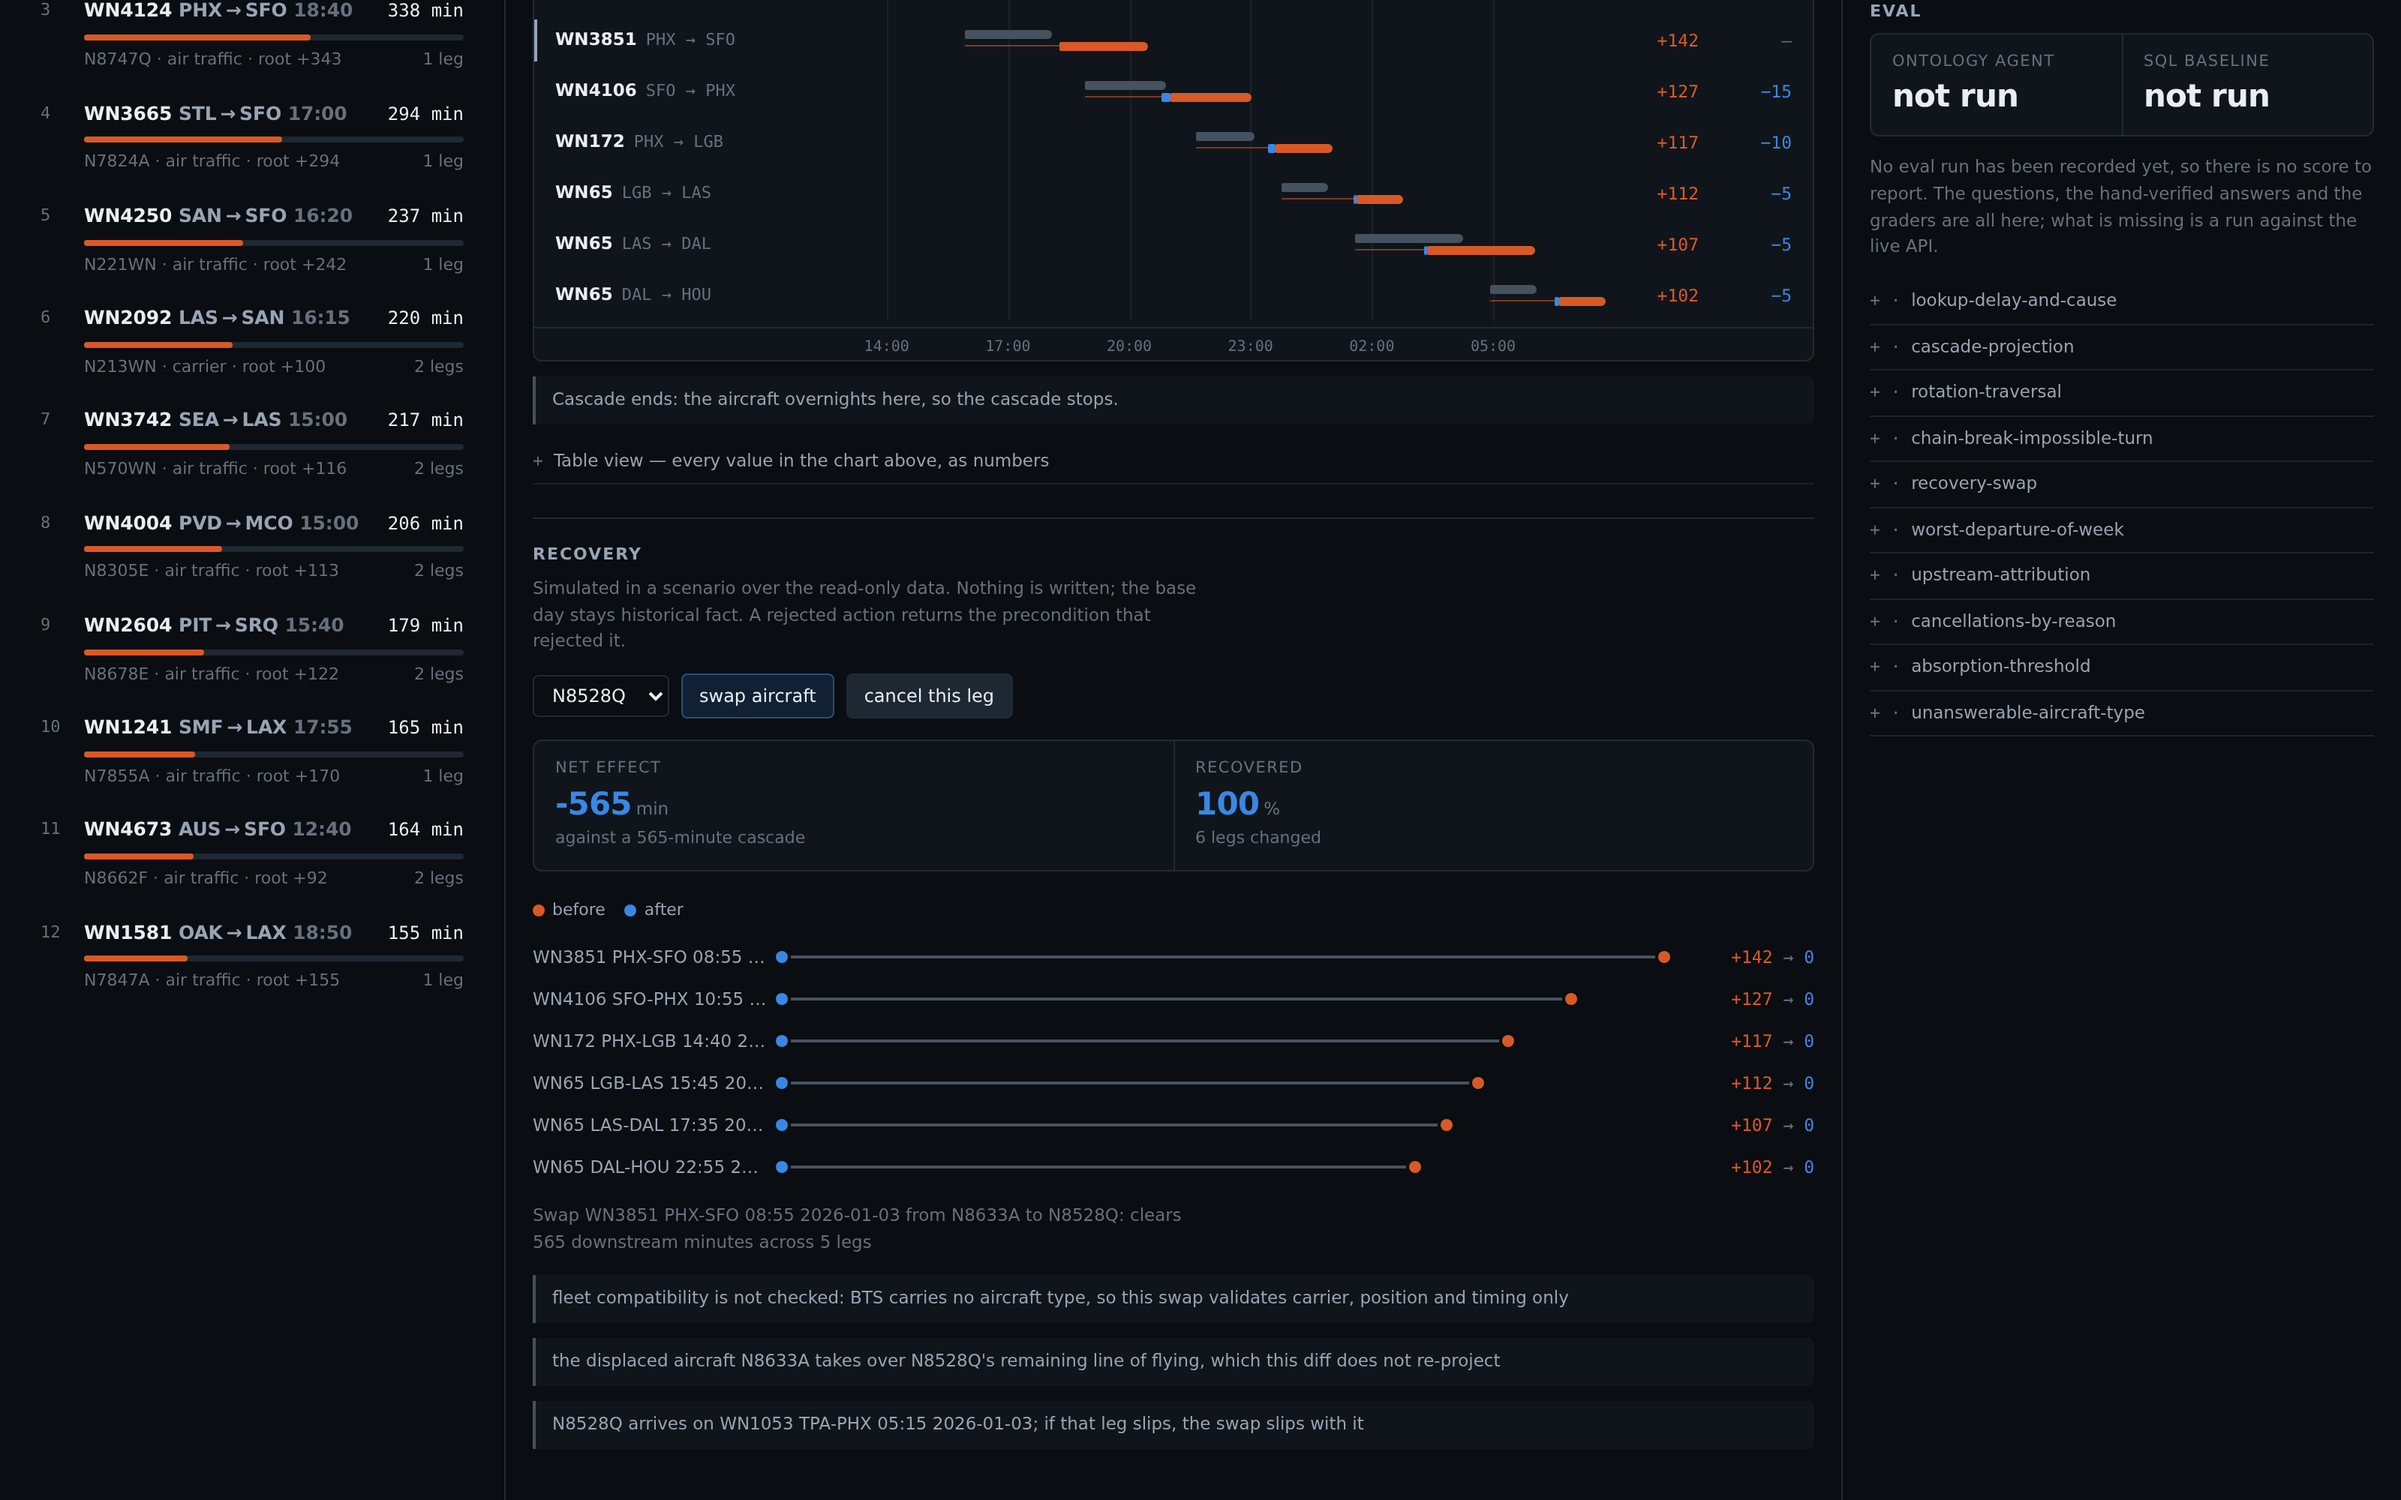
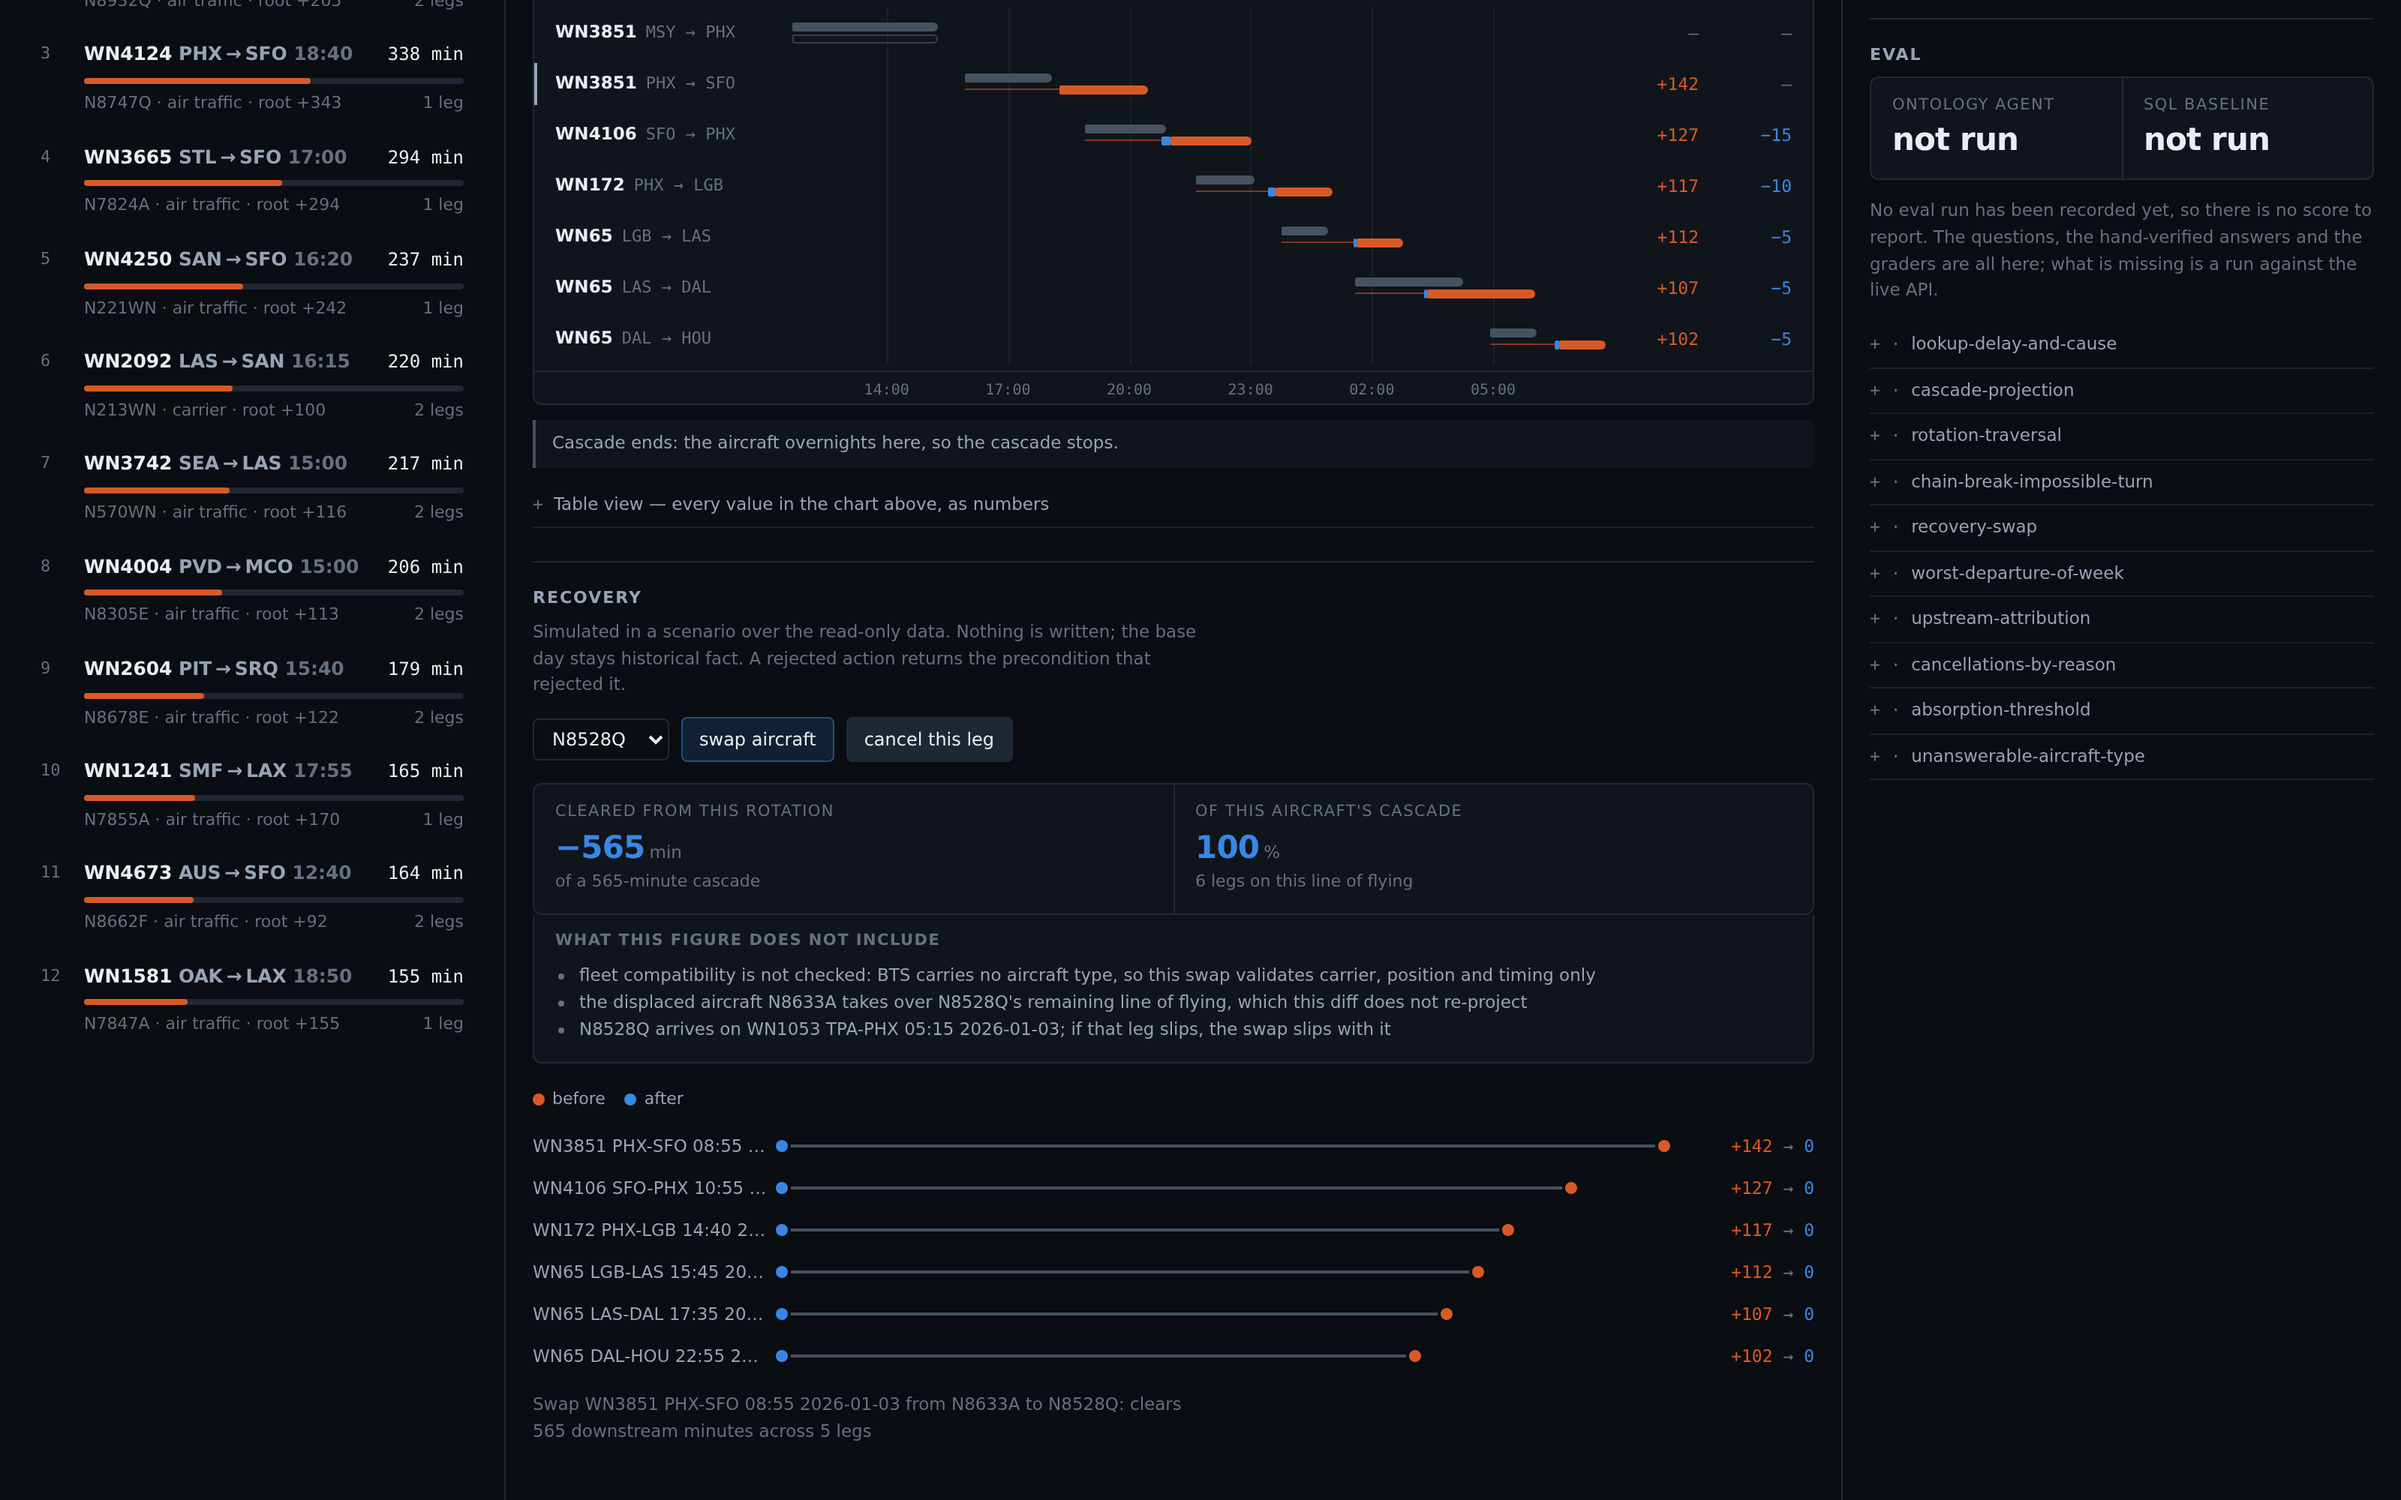
frontend: scope the recovery figure to what it measures, and put the view in the URL

diff --git a/frontend/app/page.tsx b/frontend/app/page.tsx
@@ -1,6 +1,6 @@
 'use client';
 
-import { useEffect, useState } from 'react';
+import { useEffect, useRef, useState } from 'react';
 import { ApiError, DisruptionEvent, Health, api } from '@/lib/api';
 import { DisruptionList } from '@/components/DisruptionList';
 import { CascadeView } from '@/components/CascadeView';
@@ -13,6 +13,10 @@ import { QuestionPanel } from '@/components/QuestionPanel';
  * DESIGN.md claims the missing thing is knowing which delay is worth acting on, so the ranked
  * list is the landing view and a single cascade is what you get by clicking one -- not the other
  * way round, which would make this a flight search box with a chart attached.
+ *
+ * The selected day and cascade live in the query string. A tool whose findings cannot be sent to
+ * someone else is a tool for one person: "look at this cascade" has to be a link, not a sequence
+ * of clicks to reproduce.
  */
 export default function Page() {
   const [health, setHealth] = useState<Health | null>(null);
@@ -22,7 +26,16 @@ export default function Page() {
   const [events, setEvents] = useState<DisruptionEvent[] | null>(null);
   const [selected, setSelected] = useState<DisruptionEvent | null>(null);
 
+  // What the incoming URL asked for. Read once on mount -- `window` does not exist while the
+  // static export is being prerendered -- and consumed at most once, so that a later click is
+  // never overridden by the link the visitor happened to arrive on.
+  const requested = useRef<{ date: string | null; root: string | null }>({ date: null, root: null });
+  const consumedRoot = useRef(false);
+
   useEffect(() => {
+    const query = new URLSearchParams(window.location.search);
+    requested.current = { date: query.get('date'), root: query.get('root') };
+
     // Free container hosting sleeps when idle, so the first visitor after a quiet spell waits
     // out a cold start. Retrying quietly for a minute is the difference between "this project
     // is dead" and "this took a moment" -- and a portfolio link is mostly read cold.
@@ -37,9 +50,15 @@ export default function Page() {
           setHealth(body);
           setWaking(false);
           setFailure(null);
-          // The worst day in the committed sample. Landing on an empty day would make a working
-          // deployment look broken, so the default is chosen from the data, not hardcoded.
-          setDate(body.last_date >= '2026-01-03' ? '2026-01-03' : body.first_date);
+          // A day from the URL wins, but only if the deployment actually holds it -- a stale
+          // link should land on a working screen rather than an empty one. Otherwise the worst
+          // day in the committed sample, chosen from the data rather than hardcoded, because
+          // landing on a quiet day would make a working deployment look broken.
+          const asked = requested.current.date;
+          const holds = asked !== null && asked >= body.first_date && asked <= body.last_date;
+          setDate(
+            holds ? asked : body.last_date >= '2026-01-03' ? '2026-01-03' : body.first_date,
+          );
           return;
         } catch (error) {
           attempt += 1;
@@ -69,10 +88,21 @@ export default function Page() {
       .disruptions(date)
       .then((body) => {
         setEvents(body);
-        setSelected(body[0] ?? null);
+        const wanted = consumedRoot.current ? null : requested.current.root;
+        consumedRoot.current = true;
+        setSelected(body.find((event) => event.root_flight_id === wanted) ?? body[0] ?? null);
       })
       .catch((error: ApiError) => setFailure(error.message));
   }, [date]);
+
+  // replaceState rather than pushState: paging down a ranked list should not fill the back
+  // button with twelve entries, but the address bar should always describe what is on screen.
+  useEffect(() => {
+    if (!date) return;
+    const query = new URLSearchParams({ date });
+    if (selected) query.set('root', selected.root_flight_id);
+    window.history.replaceState(null, '', `${window.location.pathname}?${query}`);
+  }, [date, selected]);
 
   return (
     <>

diff --git a/frontend/components/CascadeView.tsx b/frontend/components/CascadeView.tsx
@@ -302,17 +302,25 @@ function RecoveryPanel({ root, baseline }: { root: Flight; baseline: number }) {
 
       {diff && (
         <>
+          {/*
+            This figure is scoped, and the label says so. An earlier version of this panel led
+            with "Recovered 100%", which is not what the number measures: a swap clears the
+            cascade from *this* rotation, and the displaced aircraft's own line of flying is not
+            re-projected. A headline that large sitting above its own disclaimer is an
+            overclaim, so the scope is in the label and the caveats are attached to the number
+            rather than filed underneath the chart.
+          */}
           <div className="stats" style={{ marginTop: 14 }}>
             <div className="stat">
-              <span className="k">Net effect</span>
+              <span className="k">Cleared from this rotation</span>
               <span className={`v ${diff.net_minutes < 0 ? 'relief' : 'delay'}`}>
                 {signed(diff.net_minutes)}
                 <small>min</small>
               </span>
-              <span className="sub">against a {baseline}-minute cascade</span>
+              <span className="sub">of a {baseline}-minute cascade</span>
             </div>
             <div className="stat">
-              <span className="k">Recovered</span>
+              <span className="k">Of this aircraft&apos;s cascade</span>
               <span className="v relief">
                 {baseline > 0 && diff.net_minutes < 0
                   ? Math.round((-diff.net_minutes / baseline) * 100)
@@ -320,10 +328,21 @@ function RecoveryPanel({ root, baseline }: { root: Flight; baseline: number }) {
                 <small>%</small>
               </span>
               <span className="sub">
-                {diff.legs.length} leg{diff.legs.length === 1 ? '' : 's'} changed
+                {diff.legs.length} leg{diff.legs.length === 1 ? '' : 's'} on this line of flying
               </span>
             </div>
           </div>
+
+          {diff.warnings.length > 0 && (
+            <div className="caveat">
+              <h3>What this figure does not include</h3>
+              <ul>
+                {diff.warnings.map((warning) => (
+                  <li key={warning}>{warning}</li>
+                ))}
+              </ul>
+            </div>
+          )}
 
           <div className="chart-head">
             <div className="legend">
@@ -367,12 +386,6 @@ function RecoveryPanel({ root, baseline }: { root: Flight; baseline: number }) {
           <p className="caption" style={{ marginTop: 10 }}>
             {diff.summary}
           </p>
-
-          {diff.warnings.map((warning) => (
-            <div className="note" key={warning}>
-              {warning}
-            </div>
-          ))}
         </>
       )}
     </div>

diff --git a/frontend/app/globals.css b/frontend/app/globals.css
@@ -805,6 +805,38 @@ tr.root td {
   margin: 10px 0;
 }
 
+/* Caveats belong next to the number they qualify, not underneath the chart. A figure that needs
+   a disclaimer and gets one four scrolls away has effectively not been qualified at all. */
+.caveat {
+  border: 1px solid var(--line);
+  border-top: 0;
+  border-radius: 0 0 var(--radius-lg) var(--radius-lg);
+  background: var(--surface-1);
+  padding: 10px 14px 12px;
+  margin: -18px 0 16px;
+}
+
+.caveat h3 {
+  font-size: 10.5px;
+  font-weight: 650;
+  text-transform: uppercase;
+  letter-spacing: 0.07em;
+  color: var(--ink-3);
+  margin: 0 0 5px;
+}
+
+.caveat ul {
+  margin: 0;
+  padding-left: 16px;
+  color: var(--ink-2);
+  font-size: 11.5px;
+  line-height: 1.6;
+}
+
+.caveat li::marker {
+  color: var(--ink-3);
+}
+
 details {
   border-bottom: 1px solid var(--line-soft);
   padding: 6px 0;

diff --git a/frontend/lib/api.ts b/frontend/lib/api.ts
@@ -223,7 +223,9 @@ export function label(flightId: string): string {
 }
 
 export function signed(minutes: number): string {
-  return minutes > 0 ? `+${minutes}` : `${minutes}`;
+  // U+2212, not a hyphen: in a column of tabular figures a hyphen is visibly too short and sits
+  // at the wrong height, which is exactly where it is most obvious.
+  return minutes > 0 ? `+${minutes}` : minutes < 0 ? `−${Math.abs(minutes)}` : '0';
 }
 
 export function hhmm(iso: string): string {

diff --git a/DECISIONS.md b/DECISIONS.md
@@ -779,6 +779,47 @@ shading them by size would encode the same fact twice and spend a channel on not
 
 **Date.** 2026-08-07 (M7).
 
+## D44 — The recovery figure is scoped in its own label
+
+**Decision.** The recovery panel reads "Cleared from this rotation: −565 min" and "Of this
+aircraft's cascade: 100%", and the action's warnings sit in a bordered block attached directly
+underneath, headed "What this figure does not include".
+
+**Rejected.** "Recovered: 100%", which is what shipped first, with the warnings rendered as loose
+notes below the chart.
+
+**Why.** A swap does not recover 565 minutes from the operation. It moves them: the displaced
+aircraft picks up the original's line of flying, and this diff does not re-project that. The
+engine was always honest about it -- `available_tails` and the warnings say so in words -- but a
+48-pixel "100%" above a caveat four scrolls away is not a qualified claim, it is an unqualified
+one with a footnote. Naming the scope inside the label costs nothing and removes the only number
+on this screen that a domain expert could have called out as overstated.
+
+The general rule this is an instance of: when a figure needs a disclaimer, the disclaimer belongs
+in the label or adjacent to the value, never below the fold. If that makes the headline less
+impressive, the headline was measuring something other than what it claimed.
+
+**Date.** 2026-08-07 (M7).
+
+## D45 — The selected day and cascade live in the URL
+
+**Decision.** `?date=…&root=…` is written with `replaceState` on every selection, read once on
+mount, and ignored if the deployment does not hold the day asked for.
+
+**Rejected.** Component state only; `pushState` per selection.
+
+**Why.** A finding that cannot be sent to someone else is a finding for one person. "Look at the
+WN3665 cascade on the third" should be a link, not a sequence of clicks to reproduce -- and for a
+tool whose entire argument is that a specific delay is worth acting on, being unable to point at
+one is a functional gap rather than a nicety. `replaceState` because paging down a ranked list
+should not fill the back button with twelve entries.
+
+A stale link degrades rather than breaks: a day outside the loaded window falls back to the
+default day and still renders, because a link that outlives the data it referenced should land on
+a working screen.
+
+**Date.** 2026-08-07 (M7).
+
 ## Deployed
 
 The frontend is a static export on Vercel; the API is the repository's Docker image on Render,
